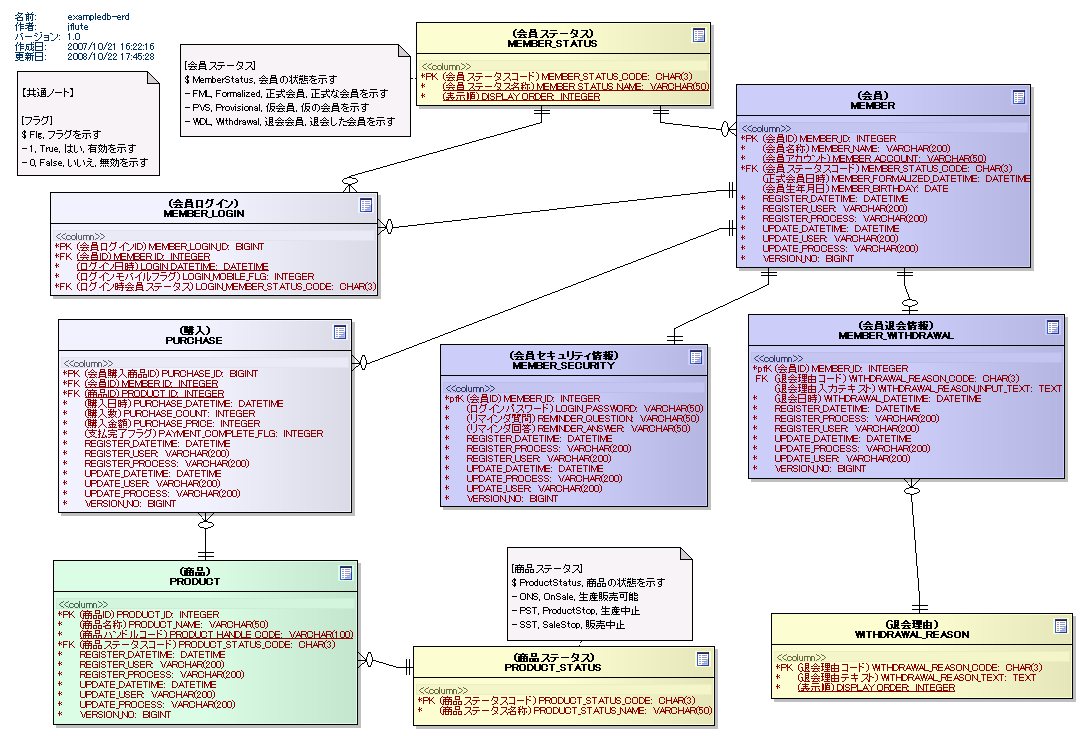
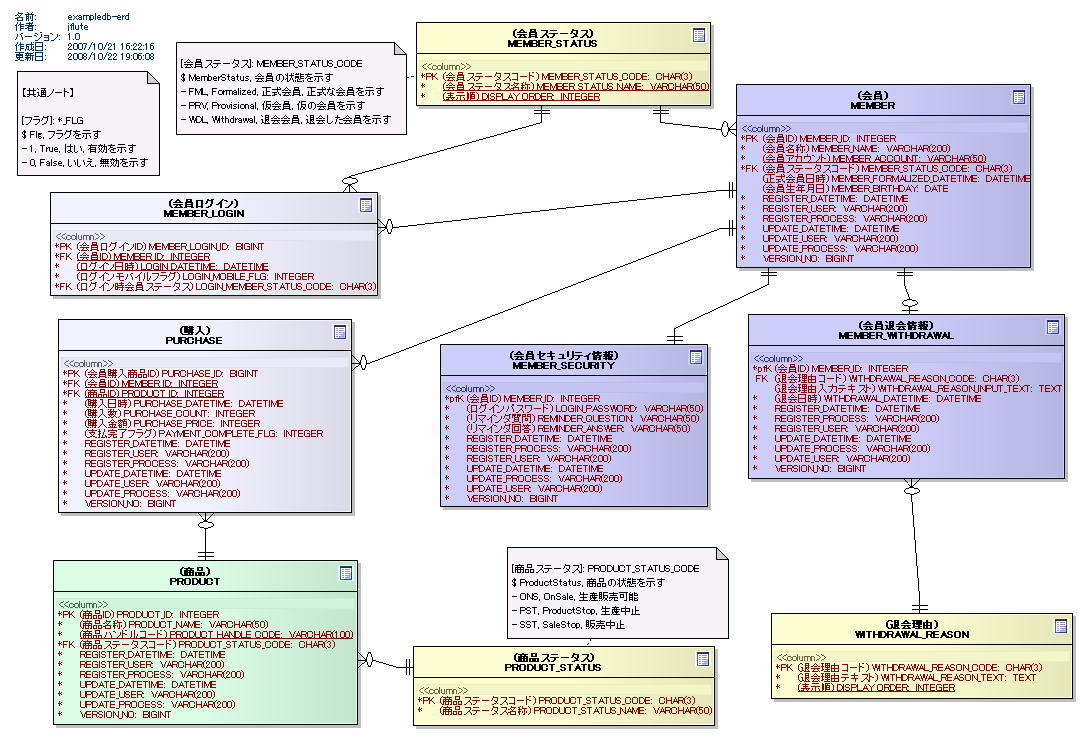
(DBFLUTE-337){Java/C#}: 区分値定義を別リソースから取得できるようにする
git-svn-id: https://www.seasar.org/svn/dbflute/trunk/www@7726 b65849cc-091c-4ecd-8ca6-0d794ba8cb45

diff --git a/view/exampledb/EARoot/EA5.html b/view/exampledb/EARoot/EA5.html
@@ -24,7 +24,7 @@ function initPage(src) {
 		</tr>
 		<tr>
 			<td class="ObjectDetailsTopic">更新日:</td>
-			<td class="ObjectDetailsValue">2008/10/22 17:45:26</td>
+			<td class="ObjectDetailsValue">2008/10/22 19:05:15</td>
 		</tr>
 		<tr style="height: 10px"><td colspan="2"></td></tr>
 		<tr>
@@ -64,7 +64,7 @@ function initPage(src) {
 			<td class="ObjectDetailsValue"><a href="EA1.html">exampledb-erd</a></td>
 		</tr>
 	</table>
-	<div class="ObjectDetailsNotes">&lt;p&gt;[&#20250;&#21729;&#12473;&#12486;&#12540;&#12479;&#12473;]&lt;br/&gt;&lt;/p&gt;&lt;p&gt;$ MemberStatus, &#20250;&#21729;&#12398;&#29366;&#24907;&#12434;&#31034;&#12377;&lt;br/&gt;&lt;/p&gt;&lt;p&gt;- FML, Formalized, &#27491;&#24335;&#20250;&#21729;, &#27491;&#24335;&#12394;&#20250;&#21729;&#12434;&#31034;&#12377;&lt;br/&gt;&lt;/p&gt;&lt;p&gt;- PVS, Provisional, &#20206;&#20250;&#21729;, &#20206;&#12398;&#20250;&#21729;&#12434;&#31034;&#12377;&lt;br/&gt;&lt;/p&gt;&lt;p&gt;- WDL, Withdrawal, &#36864;&#20250;&#20250;&#21729;, &#36864;&#20250;&#12375;&#12383;&#20250;&#21729;&#12434;&#31034;&#12377;&lt;br/&gt;&lt;/p&gt;</div>
+	<div class="ObjectDetailsNotes">&lt;p&gt;[&#20250;&#21729;&#12473;&#12486;&#12540;&#12479;&#12473;]: MEMBER_STATUS_CODE&lt;br/&gt;&lt;/p&gt;&lt;p&gt;$ MemberStatus, &#20250;&#21729;&#12398;&#29366;&#24907;&#12434;&#31034;&#12377;&lt;br/&gt;&lt;/p&gt;&lt;p&gt;- FML, Formalized, &#27491;&#24335;&#20250;&#21729;, &#27491;&#24335;&#12394;&#20250;&#21729;&#12434;&#31034;&#12377;&lt;br/&gt;&lt;/p&gt;&lt;p&gt;- PRV, Provisional, &#20206;&#20250;&#21729;, &#20206;&#12398;&#20250;&#21729;&#12434;&#31034;&#12377;&lt;br/&gt;&lt;/p&gt;&lt;p&gt;- WDL, Withdrawal, &#36864;&#20250;&#20250;&#21729;, &#36864;&#20250;&#12375;&#12383;&#20250;&#21729;&#12434;&#31034;&#12377;&lt;br/&gt;&lt;/p&gt;</div>
 
 <div class="pageFooter"></div>
  

diff --git a/view/exampledb/EARoot/EA3.html b/view/exampledb/EARoot/EA3.html
@@ -24,7 +24,7 @@ function initPage(src) {
 		</tr>
 		<tr>
 			<td class="ObjectDetailsTopic">更新日:</td>
-			<td class="ObjectDetailsValue">2008/10/22 17:44:40</td>
+			<td class="ObjectDetailsValue">2008/10/22 19:06:19</td>
 		</tr>
 		<tr style="height: 10px"><td colspan="2"></td></tr>
 		<tr>
@@ -64,7 +64,7 @@ function initPage(src) {
 			<td class="ObjectDetailsValue"><a href="EA1.html">exampledb-erd</a></td>
 		</tr>
 	</table>
-	<div class="ObjectDetailsNotes">&lt;p&gt;&#12304;&#20849;&#36890;&#12494;&#12540;&#12488;&#12305;&lt;br/&gt;&lt;/p&gt;&lt;p&gt;&lt;br/&gt;&lt;/p&gt;&lt;p&gt;[&#12501;&#12521;&#12464;]&lt;br/&gt;&lt;/p&gt;&lt;p&gt;$ Flg, &#12501;&#12521;&#12464;&#12434;&#31034;&#12377;&lt;br/&gt;&lt;/p&gt;&lt;p&gt;- 1, True, &#12399;&#12356;, &#26377;&#21177;&#12434;&#31034;&#12377;&lt;br/&gt;&lt;/p&gt;&lt;p&gt;- 0, False, &#12356;&#12356;&#12360;, &#28961;&#21177;&#12434;&#31034;&#12377;&lt;br/&gt;&lt;/p&gt;</div>
+	<div class="ObjectDetailsNotes">&lt;p&gt;&#12304;&#20849;&#36890;&#12494;&#12540;&#12488;&#12305;&lt;br/&gt;&lt;/p&gt;&lt;p&gt;&lt;br/&gt;&lt;/p&gt;&lt;p&gt;[&#12501;&#12521;&#12464;]: *_FLG&lt;br/&gt;&lt;/p&gt;&lt;p&gt;$ Flg, &#12501;&#12521;&#12464;&#12434;&#31034;&#12377;&lt;br/&gt;&lt;/p&gt;&lt;p&gt;- 1, True, &#12399;&#12356;, &#26377;&#21177;&#12434;&#31034;&#12377;&lt;br/&gt;&lt;/p&gt;&lt;p&gt;- 0, False, &#12356;&#12356;&#12360;, &#28961;&#21177;&#12434;&#31034;&#12377;&lt;br/&gt;&lt;/p&gt;</div>
 
 <div class="pageFooter"></div>
  

diff --git a/view/exampledb/EARoot/EA4.html b/view/exampledb/EARoot/EA4.html
@@ -24,7 +24,7 @@ function initPage(src) {
 		</tr>
 		<tr>
 			<td class="ObjectDetailsTopic">更新日:</td>
-			<td class="ObjectDetailsValue">2008/10/22 17:45:37</td>
+			<td class="ObjectDetailsValue">2008/10/22 19:05:49</td>
 		</tr>
 		<tr style="height: 10px"><td colspan="2"></td></tr>
 		<tr>
@@ -64,7 +64,7 @@ function initPage(src) {
 			<td class="ObjectDetailsValue"><a href="EA1.html">exampledb-erd</a></td>
 		</tr>
 	</table>
-	<div class="ObjectDetailsNotes">&lt;p&gt;[&#21830;&#21697;&#12473;&#12486;&#12540;&#12479;&#12473;]&lt;br/&gt;&lt;/p&gt;&lt;p&gt;$ ProductStatus, &#21830;&#21697;&#12398;&#29366;&#24907;&#12434;&#31034;&#12377;&lt;br/&gt;&lt;/p&gt;&lt;p&gt;- ONS, OnSale, &#29983;&#29987;&#36009;&#22770;&#21487;&#33021;&lt;br/&gt;&lt;/p&gt;&lt;p&gt;- PST, ProductStop, &#29983;&#29987;&#20013;&#27490;&lt;br/&gt;&lt;/p&gt;&lt;p&gt;- SST, SaleStop, &#36009;&#22770;&#20013;&#27490;&lt;br/&gt;&lt;/p&gt;</div>
+	<div class="ObjectDetailsNotes">&lt;p&gt;[&#21830;&#21697;&#12473;&#12486;&#12540;&#12479;&#12473;]: PRODUCT_STATUS_CODE&lt;br/&gt;&lt;/p&gt;&lt;p&gt;$ ProductStatus, &#21830;&#21697;&#12398;&#29366;&#24907;&#12434;&#31034;&#12377;&lt;br/&gt;&lt;/p&gt;&lt;p&gt;- ONS, OnSale, &#29983;&#29987;&#36009;&#22770;&#21487;&#33021;&lt;br/&gt;&lt;/p&gt;&lt;p&gt;- PST, ProductStop, &#29983;&#29987;&#20013;&#27490;&lt;br/&gt;&lt;/p&gt;&lt;p&gt;- SST, SaleStop, &#36009;&#22770;&#20013;&#27490;&lt;br/&gt;&lt;/p&gt;</div>
 
 <div class="pageFooter"></div>
  

diff --git a/view/exampledb/EARoot/EA1.html b/view/exampledb/EARoot/EA1.html
@@ -20,8 +20,8 @@ function initPage(src) {
 
 <MAP NAME="EA2">
 <area shape="rect" coords="17,71,159,175" href="EA3.html">
-<area shape="rect" coords="507,547,692,640" href="EA4.html">
-<area shape="rect" coords="180,44,410,136" href="EA5.html">
+<area shape="rect" coords="507,547,728,638" href="EA4.html">
+<area shape="rect" coords="176,42,406,134" href="EA5.html">
 <area shape="rect" coords="50,192,378,296" href="EA9.html">
 <area shape="rect" coords="413,646,715,726" href="EA14.html">
 <area shape="rect" coords="771,613,1073,699" href="EA16.html">
@@ -42,7 +42,7 @@ function initPage(src) {
 		</tr>
 		<tr>
 			<td width="15%" class="ObjectDetailsTopic">更新日:</td>
-			<td width="85%" class="ObjectDetailsValue">2008/10/22 17:45:28</td>
+			<td width="85%" class="ObjectDetailsValue">2008/10/22 19:06:08</td>
 		</tr>
 		<tr style="padding-top: 10px;">
 			<td width="15%" class="ObjectDetailsTopic"><img src="../images/plus03.gif" align="absmiddle" id="proj" onclick="parent.toggleData(this.id)" />プロジェクト:</td>
